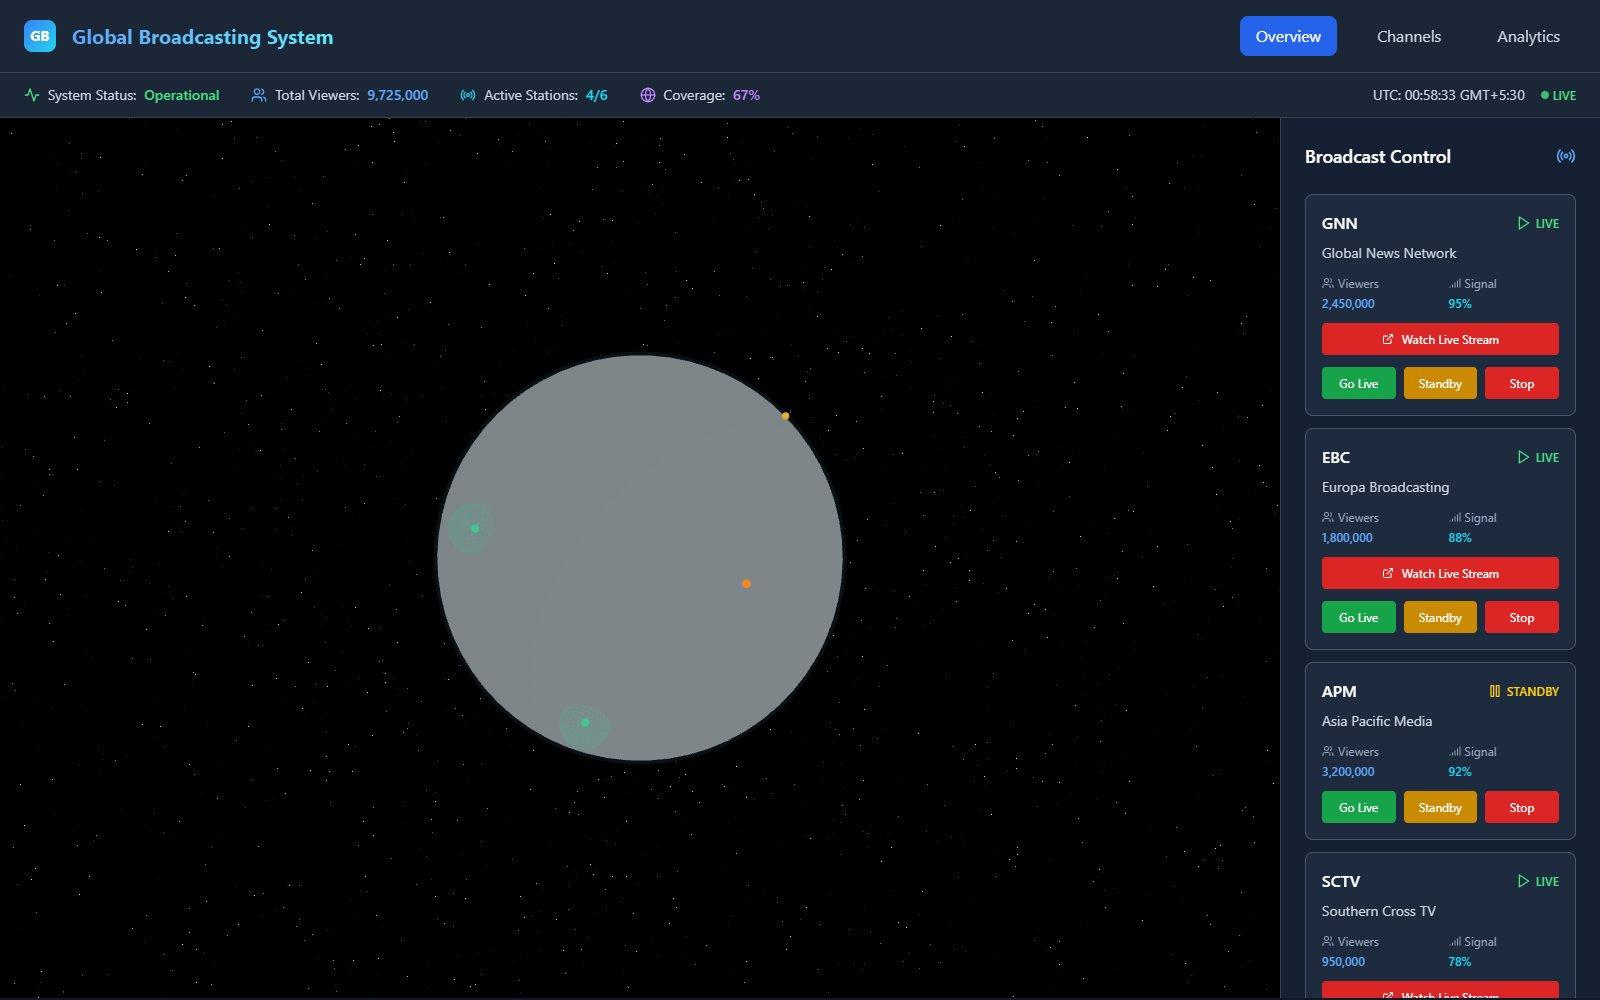
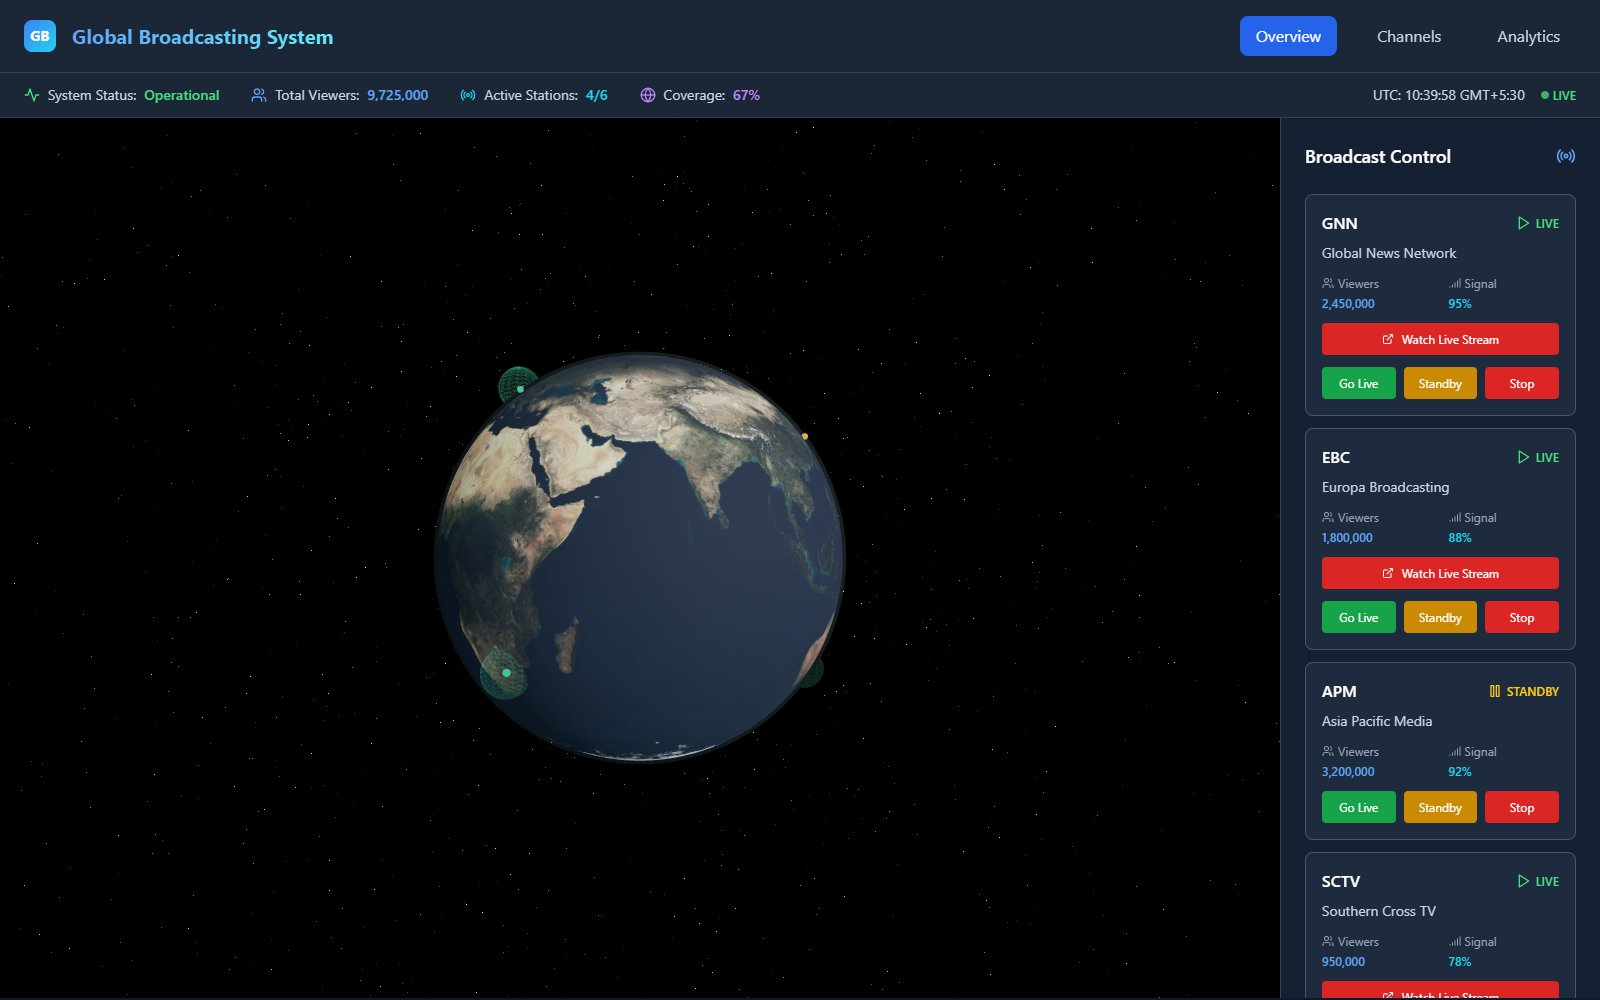
Archive: drop Tilewar (its game server is gone), new Global Broadcasting System shot with the fixed globe

Changed region(s): [[0.25, 0.341, 0.5312, 0.775]]

diff --git a/web/public/archive/games.html b/web/public/archive/games.html
@@ -75,7 +75,7 @@
 </header>
 
 <main id="entries">
-  <div class="count"><span>5 games</span><span>4 live · 1 archived</span></div>
+  <div class="count"><span>4 games</span><span>All live</span></div>
 
   <article class="entry">
     <div class="preview"><img src="shots/chess.jpg" alt="Chess Royale: a brown and cream board in the starting position beside a panel set to Elo 1900, playing White" loading="lazy">
@@ -114,20 +114,9 @@
   </article>
 
   <article class="entry">
-    <div class="preview"><img src="shots/tilewar.jpg" alt="Tilewar: a grey grid with a scatter of blue and cyan claimed tiles, a live activity panel and a player name tag" loading="lazy"></div>
-    <div>
-      <div class="num">04</div>
-      <h2>Tilewar</h2>
-      <p class="desc">A shared grid that anyone can claim tiles on, live. When two people click the same tile at the same instant, the database's row locks pick exactly one winner and every browser hears the result at once.</p>
-      <dl><dt>Role</dt><dd>Take-home assignment for InboxKit</dd><dt>Year</dt><dd>2026</dd><dt>Stack</dt><dd>Next.js, Fastify, Socket.IO, PostgreSQL, Redis, TypeScript</dd></dl>
-      <div class="row"><span class="badge archived">Archived</span><span class="note">The game server is no longer running</span></div>
-    </div>
-  </article>
-
-  <article class="entry">
     <div class="preview"><img src="shots/codewarrior.jpg" alt="Code Warrior's pixel-art title on a starfield, a row of ranks from C to SSS and a Sign in with GitHub button" loading="lazy"></div>
     <div>
-      <div class="num">05</div>
+      <div class="num">04</div>
       <h2>Code Warrior</h2>
       <p class="desc">Your real GitHub activity, turned into an RPG character. Stars, pull requests, commits, issues and reviews become experience that sets a rank from C to SSS, character stats, quests, badges and a place on a global leaderboard.</p>
       <dl><dt>Role</dt><dd>Personal project</dd><dt>Year</dt><dd>2026</dd><dt>Stack</dt><dd>Next.js, TypeScript, Supabase, NextAuth, TanStack Query, Framer Motion</dd></dl>

diff --git a/web/public/archive/index.html b/web/public/archive/index.html
@@ -84,7 +84,7 @@
   <a class="cat" href="stories.html"><img src="hero_stories.jpg" alt="" loading="lazy"><span class="kicker">The ruined chapel</span>
     <h2>Stories &amp; experiences</h2><p>Websites that tell something as you move through them: scroll, orbit, listen.</p><span class="n">3 experiences</span></a>
   <a class="cat" href="games.html"><img src="hero_games.jpg" alt="" loading="lazy"><span class="kicker">The stone ring</span>
-    <h2>Games</h2><p>Things to play, in the browser, with nothing to install.</p><span class="n">5 games</span></a>
+    <h2>Games</h2><p>Things to play, in the browser, with nothing to install.</p><span class="n">4 games</span></a>
   <a class="cat" href="work.html"><img src="hero_work.jpg" alt="" loading="lazy"><span class="kicker">The milestones</span>
     <h2>Work</h2><p>Where I have worked, and what was built there.</p><span class="n">3 places</span></a>
   <a class="cat" href="art.html"><img src="hero_art.jpg" alt="" loading="lazy"><span class="kicker">The easels</span>
